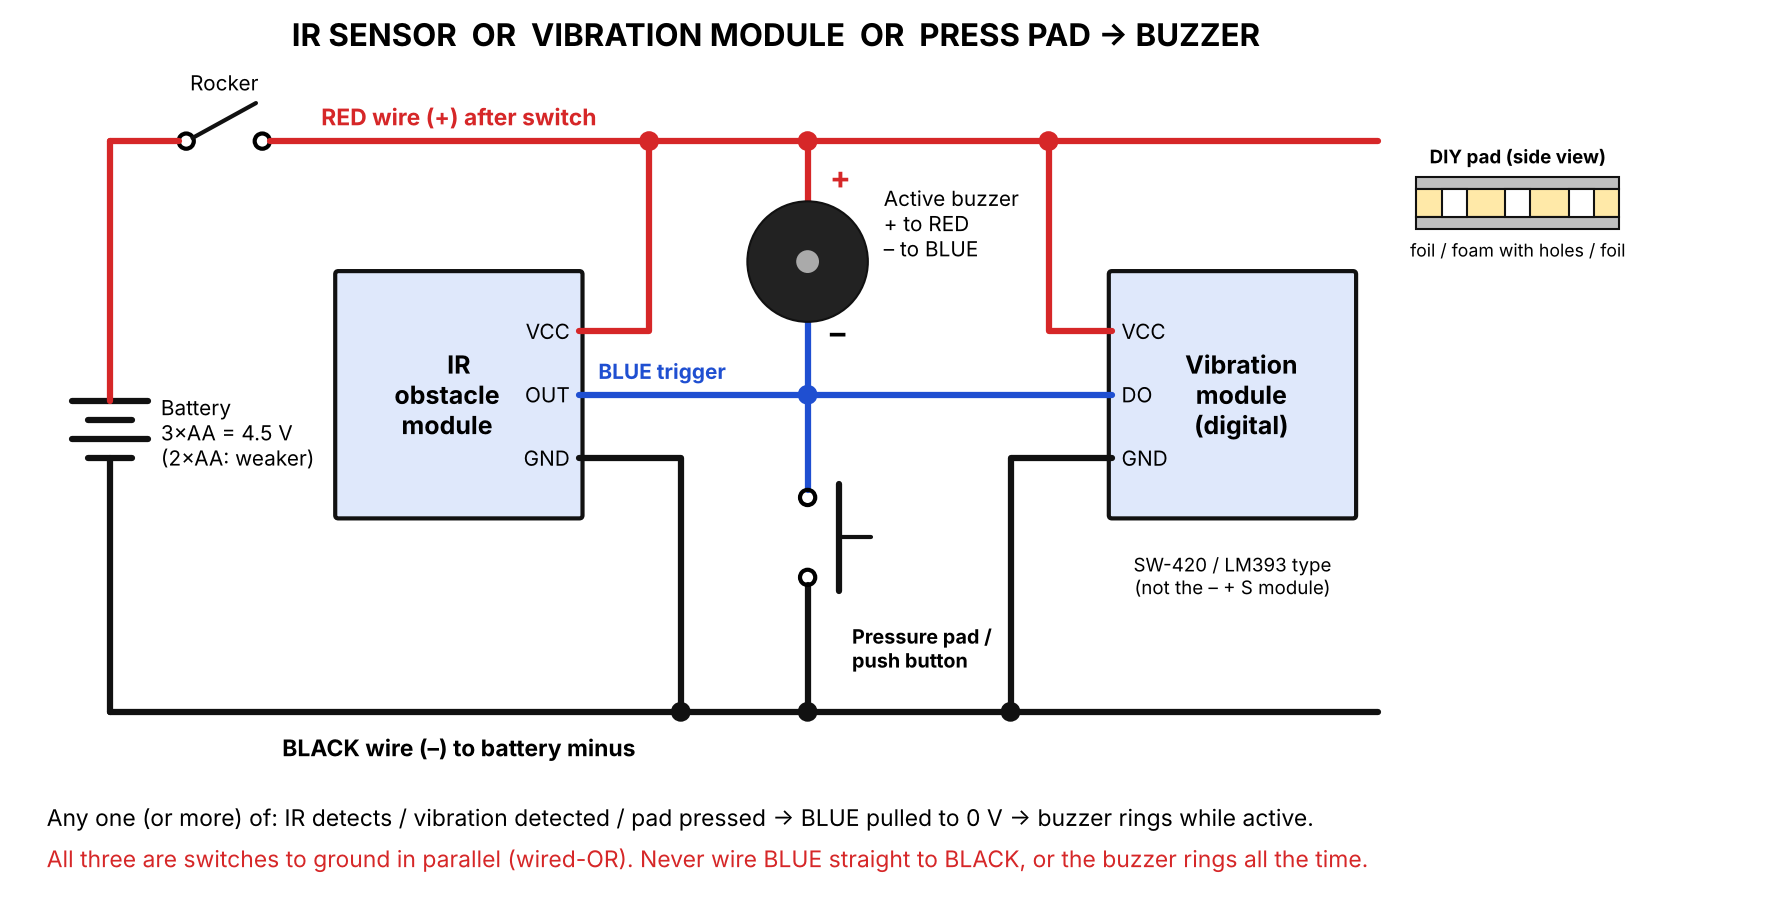
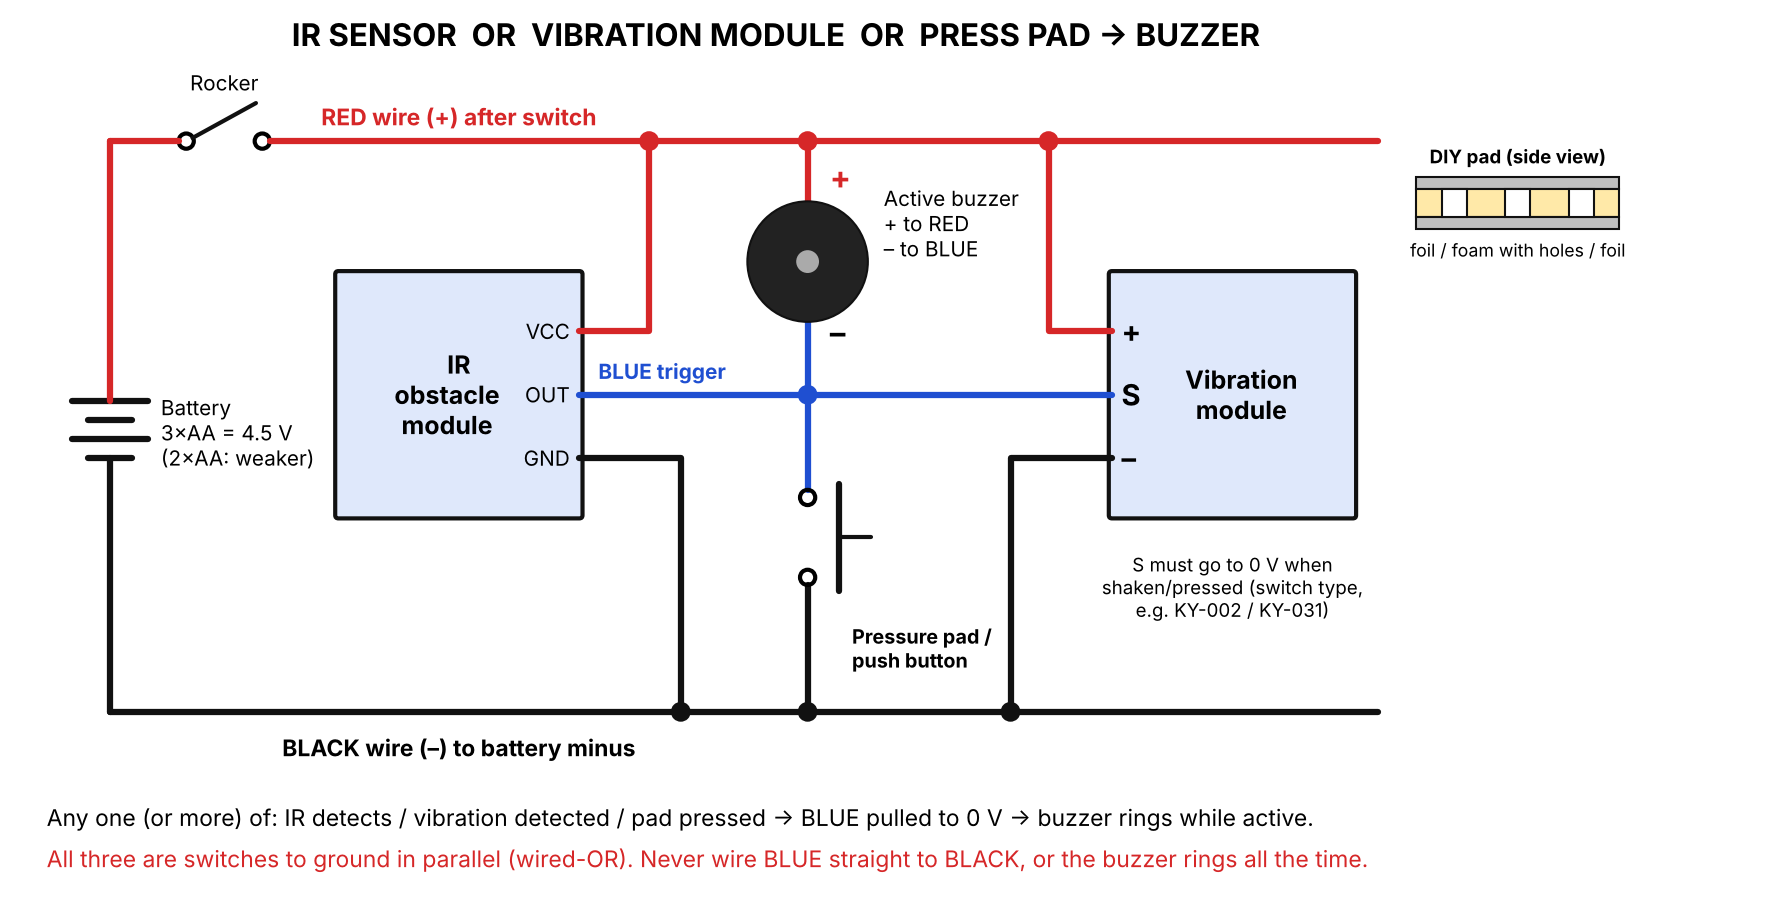
Label vibration module pins S, +, – in diagram and breadboard layout
Claude-Session: https://claude.ai/code/session_01UqKNKqGxTkCEsbKhzft9TN

diff --git a/alarm-circuit/breadboard.py b/alarm-circuit/breadboard.py
@@ -69,7 +69,7 @@ steps=['1  Battery + → switch IN.   Switch OUT → top + rail (1).',
        '4  Buzzer: – leg in 12c, + leg in 15c.   Jumper 15a → + rail (16).',
        '5  Pad foil 1 → hole 12b.   Pad foil 2 → – rail (22).',
        '6  Rail jumpers: top + → bottom + (col 29), top – → bottom – (col 30).',
-       '7  Vibration module (DIGITAL): VCC → bottom + rail, GND → bottom – rail, DO → hole 12e.',
+       '7  Vibration module: + → bottom + rail, – → bottom – rail, S → hole 12e.',
        '8  Check: nothing from column 12 goes straight to the – rail. Then switch ON and test.']
 for i,s in enumerate(steps): T(-11,-3.4-i*0.0 - 0 if False else 9.0-i*1.05,s,fontsize=10,ha='left',va='center',bbox=None) if False else None
 T(-11.5,-11.4,'\n'.join(steps),fontsize=10.5,va='top',family='monospace')
@@ -81,11 +81,11 @@ wire([(30,TOPN),(30,BOTN)],K,3.5); end(30,TOPN,K); end(30,BOTN,K)
 ax.add_patch(FancyBboxPatch((12.3,-9.9),7.6,3.3,boxstyle='round,pad=0.15',fc='#1d4f9c',ec='k',zorder=4))
 ax.add_patch(Rectangle((18.8,-9.5),0.8,2.0,fc='#3c6fc4',ec='k',zorder=5))
 ax.add_patch(Circle((18.0,-9.2),0.3,fc='#3b7fd8',ec='k',zorder=5))
-T(15.4,-8.6,'Vibration module\n(digital, DO pin)',ha='center',va='center',color='white',fontsize=9.5,weight='bold',zorder=11)
-for x,n in [(13.5,'DO'),(15.5,'GND'),(17.5,'VCC')]: T(x,-7.25,n,ha='center',fontsize=8.5,weight='bold',color='white',zorder=11); end(x,-6.6,'#e8c84a')
+T(15.4,-8.6,'Vibration module\n(S  –  +)',ha='center',va='center',color='white',fontsize=9.5,weight='bold',zorder=11)
+for x,n in [(13.5,'S'),(15.5,'–'),(17.5,'+')]: T(x,-7.25,n,ha='center',fontsize=8.5,weight='bold',color='white',zorder=11); end(x,-6.6,'#e8c84a')
 wire([(17.5,-6.6),(17.5,BOTP)],R,3.5); end(17.5,BOTP,R)
 wire([(15.5,-6.6),(15.5,BOTN)],K,3.5); end(15.5,BOTN,K)
 wire([(13.5,-6.6),(13.5,-4.6),(10.6,-4.6),(10.6,6.3),(12,6.3),(12,7)],BL); end(12,7,BL)
-T(0.3,-6.3,'DO → 12e (the wire passes over\nrows f–j; only its end is plugged in)',fontsize=9,color=BL,weight='bold')
-T(20.5,-8.2,'Your – + S module will NOT work here:\nit has no DO pin / chip.\nUse SW-420 or an LM393\nvibration module.',fontsize=9,color=R,va='center')
+T(0.3,-6.3,'S → 12e (the wire passes over\nrows f–j; only its end is plugged in)',fontsize=9,color=BL,weight='bold')
+T(20.5,-8.2,'Works only if S drops to 0 V\nwhen shaken (switch type).\nThe piezo-disc module with a\nscrew terminal will NOT ring it.',fontsize=9,color=R,va='center')
 plt.savefig('breadboard_layout.png',dpi=140,bbox_inches='tight',facecolor='white')

diff --git a/alarm-circuit/draw_final.py b/alarm-circuit/draw_final.py
@@ -25,11 +25,11 @@ L([(8.4,4.5),(10,4.5),(10,GY)],K); dot(10,GY,K)
 L([(8.4,5.5),(16.8,5.5)],BL)
 # vibration module (pins on left)
 VX=16.8
-box(VX,3.6,3.8,3.8,'   Vibration\n   module\n   (digital)',"#dfe8fb")
-for yy,n in [(6.5,'VCC'),(5.5,'DO'),(4.5,'GND')]: T(VX+0.15,yy,n,ha='left',va='center',fontsize=10)
+box(VX,3.6,3.8,3.8,'   Vibration\n   module',"#dfe8fb")
+for yy,n in [(6.5,'+'),(5.5,'S'),(4.5,'–')]: T(VX+0.15,yy,n,ha='left',va='center',fontsize=14,weight='bold')
 L([(VX,6.5),(15.8,6.5),(15.8,VY)],R); dot(15.8,VY,R)
 L([(VX,4.5),(15.2,4.5),(15.2,GY)],K); dot(15.2,GY,K)
-T(VX+1.9,3.0,'SW-420 / LM393 type\n(not the – + S module)',ha='center',va='top',fontsize=9)
+T(VX+1.9,3.0,'S must go to 0 V when\nshaken/pressed (switch type,\ne.g. KY-002 / KY-031)',ha='center',va='top',fontsize=9)
 # pressure pad / push button on the trigger line
 PX=12
 L([(PX,5.5),(PX,4.0)],BL)
